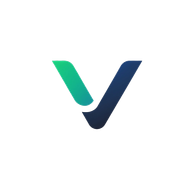
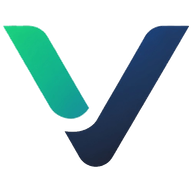
fix(brand): tight-crop V mark, tighter wordmark gap, scale exNexa to read as one name
Made-with: Cursor

Changed region(s): [[0.0, 0.125, 1.0, 0.875]]

diff --git a/src/components/brand/VexnexaLogo.tsx b/src/components/brand/VexnexaLogo.tsx
@@ -5,16 +5,17 @@ import { cn } from "@/lib/utils";
 import { BRAND, BRAND_MARK_ASPECT } from "@/config/brand";
 
 interface VexnexaLogoProps {
-  /** Height of the V mark in px — word scales to match visually */
+  /** Target height of the V mark in px (glyph is tight-cropped; matches cap band of the word) */
   size?: number;
   className?: string;
 }
 
 export default function VexnexaLogo({ size = 32, className }: VexnexaLogoProps) {
   const markWidth = Math.round(size * BRAND_MARK_ASPECT);
-  const gap = Math.round(markWidth * 0.22);
-  /** Body of the wordmark after the V mark (reads as VexNexa) */
-  const wordSize = Math.round(size * 0.62);
+  /** Letter-spacing inside a single word (~1/4 of a typical stem gap) */
+  const gap = Math.max(2, Math.round(size * 0.07));
+  /** exNexa — cap height ≈ 0.72×em; tuned with tight V crop so V reads as the leading letter */
+  const wordSize = Math.round(size * 0.78);
 
   return (
     <span
@@ -34,7 +35,11 @@ export default function VexnexaLogo({ size = 32, className }: VexnexaLogoProps) 
       <span
         aria-hidden
         className="font-display font-semibold tracking-tight text-[#0A2540] dark:text-white"
-        style={{ fontSize: wordSize, lineHeight: 1, letterSpacing: "-0.02em" }}
+        style={{
+          fontSize: wordSize,
+          lineHeight: 1,
+          letterSpacing: "-0.03em",
+        }}
       >
         exNexa
       </span>

diff --git a/src/lib/email-templates.ts b/src/lib/email-templates.ts
@@ -68,7 +68,7 @@ function getMasterTemplate(data: BaseEmailTemplate): string {
                                 <table role="presentation" align="center" style="margin: 0 auto; border-collapse: collapse;">
                                     <tr>
                                         <td style="padding: 0 10px 0 0; vertical-align: middle;">
-                                            <img src="https://vexnexa.com/brand/vexnexa-v-mark.png" alt="" width="27" height="40" style="display: block; height: 40px; width: auto;" />
+                                            <img src="https://vexnexa.com/brand/vexnexa-v-mark.png" alt="" width="52" height="40" style="display: block; height: 40px; width: auto;" />
                                         </td>
                                         <td style="vertical-align: middle; font-family: -apple-system, BlinkMacSystemFont, 'Segoe UI', Roboto, Helvetica, Arial, sans-serif; font-size: 26px; font-weight: 600; color: #0A2540; letter-spacing: -0.02em; line-height: 1;">
                                             exNexa

diff --git a/src/config/brand.ts b/src/config/brand.ts
@@ -3,8 +3,8 @@
  * Change these values to rebrand the entire application.
  */
 
-/** Width ÷ height of `vexnexa-v-mark.png` (update if source asset changes). */
-export const BRAND_MARK_ASPECT = 682 / 1024
+/** Width ÷ height of `vexnexa-v-mark.png` (tight-cropped to the glyph; update if asset changes). */
+export const BRAND_MARK_ASPECT = 497 / 383
 
 export const BRAND = {
   name: "VexNexa",
